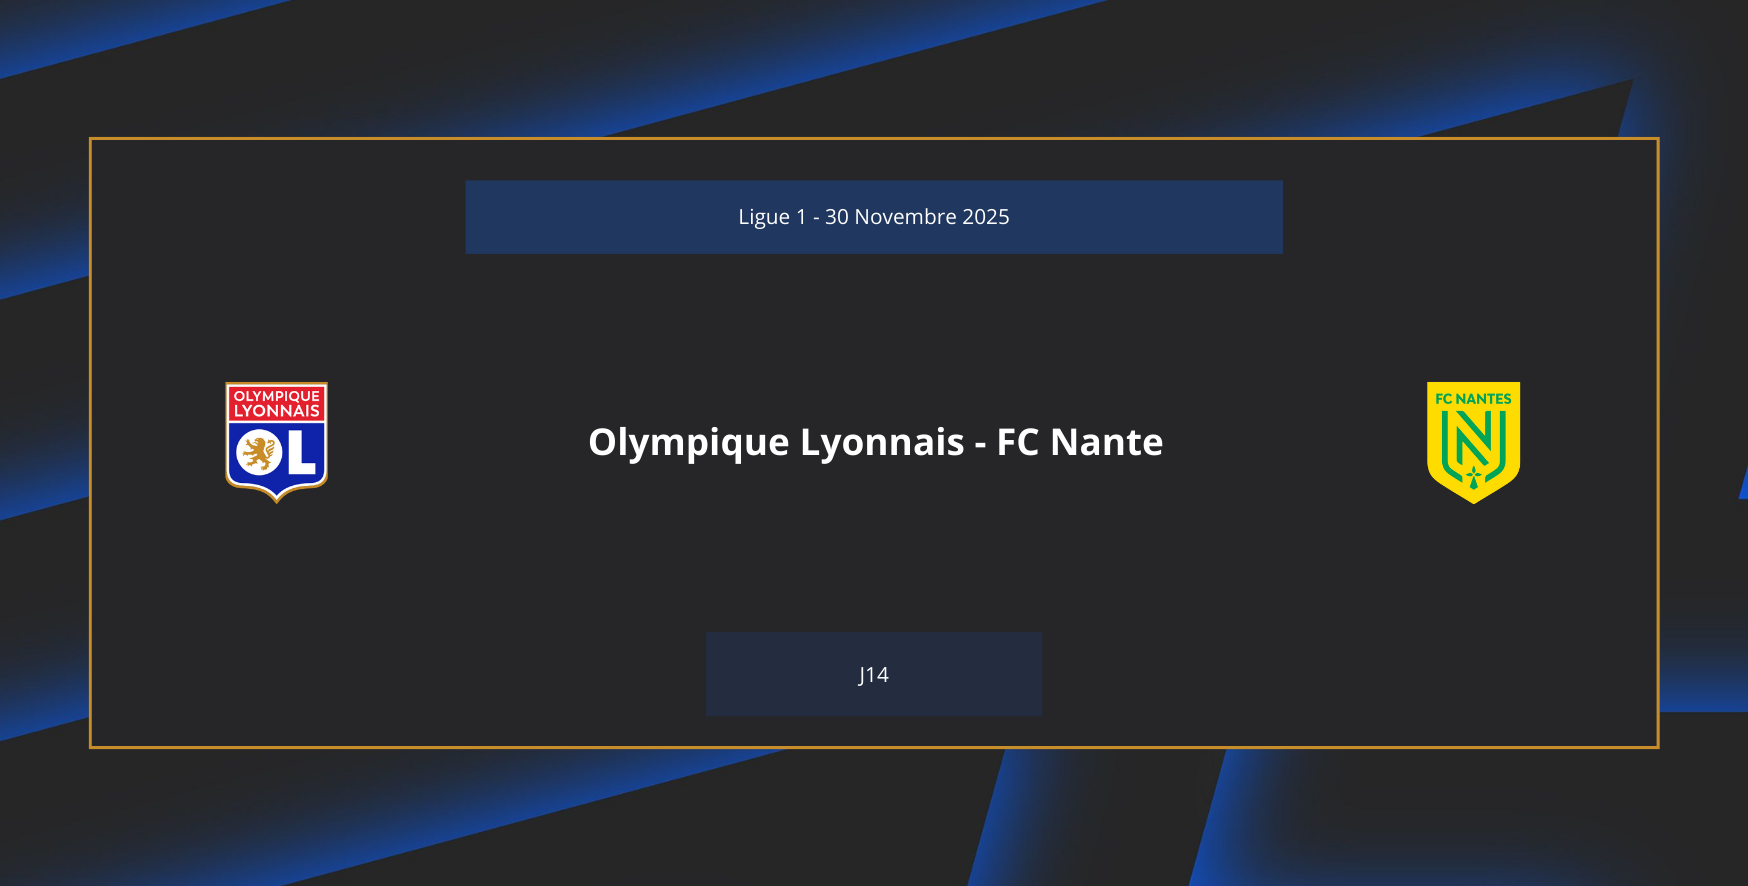
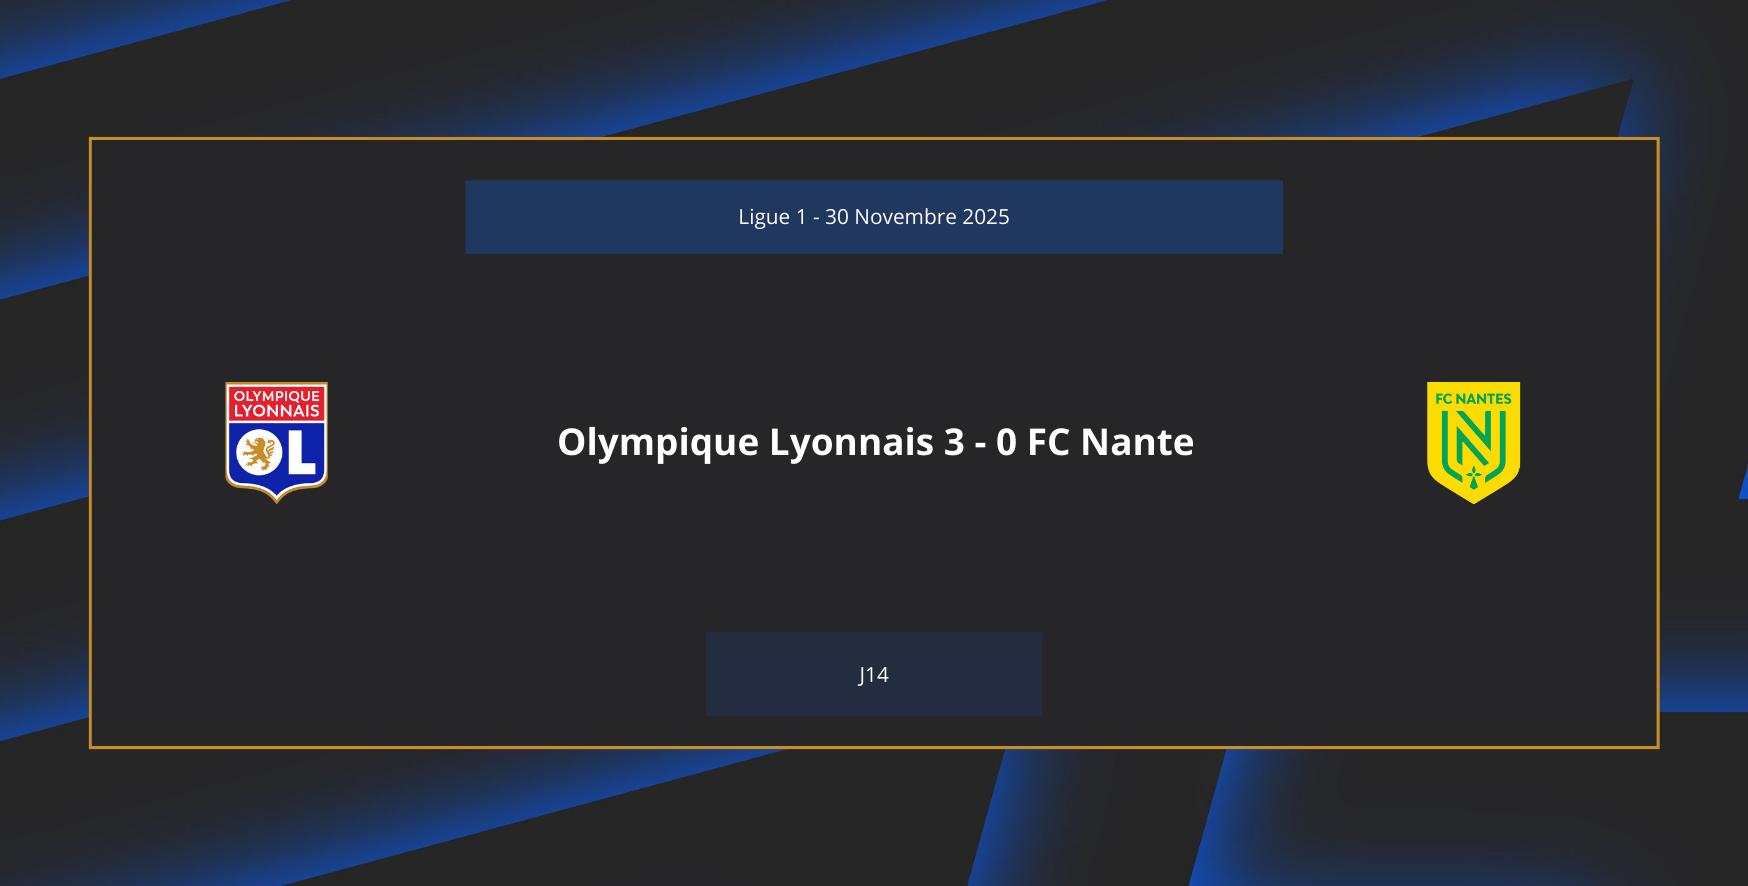
Mise-à-jour match + add summary "header" class

Changed region(s): [[0.3089, 0.4876, 0.6796, 0.5181]]

diff --git a/index.html b/index.html
@@ -22,7 +22,7 @@
             </a>
             <div class="menu">
                 <details class="nav">
-                    <summary><b>Saison Actuelle</b></summary>
+                    <summary class="nom-nav"><b>Saison Actuelle</b></summary>
                     <div class="sous-nav">
                         <ul>
                             <li><a href="match.html">Matchs</a></li>
@@ -33,7 +33,7 @@
                 </details>
 
                 <details class="nav">
-                    <summary><b>Anciennes Saisons</b></summary>
+                    <summary class="nom-nav"><b>Anciennes Saisons</b></summary>
                     <div class="sous-nav">
                         <ul>
                             <li>2024-2025</li>
@@ -44,7 +44,7 @@
                 </details>
 
                 <details class="nav">
-                    <summary><b>Histoire</b></summary>
+                    <summary class="nom-nav"><b>Histoire</b></summary>
                     <div class="sous-nav">
                         <ul>
                             <li><a href="palmarès.html">Palmarès</a></li>
@@ -62,6 +62,11 @@
                     <section class="bordure">
                         <h3>Dernier Match</h3>
                         <article class="sous_box">
+                            <img src="/image_match/OL - FCN.png" alt="Olympique Lyonnais 3 - 0 FC Nante" width="80%">
+                            <p class="bouton">Voir le match</p>
+                        </article>
+
+                        <article class="sous_box">
                             <img src="image_match/MTA-OL.png" alt="Macabi Tel Aviv 0 - 6 Olympique Lyonnais" width="80%">
                             <p class="bouton">Voir le match</p>
                         </article>
@@ -75,11 +80,6 @@
                             <img src="/image_match/OL-PSG.png" alt="Olympique Lyonnais 2 - 3 Paris SG" width="80%">
                             <p class="bouton">Voir le match</p>
                         </article>
-
-                        <article class="sous_box">
-                            <img src="/image_match/BS-OL.png" alt="Betis Seville 2 -  0 Olympique Lyonnais" width="80%">
-                            <p class="bouton">Voir le match</p>
-                        </article>
                         <a href="match.html" class="bouton-fin">Voir plus de match</a>
                     </section>
                 </div>
@@ -87,15 +87,15 @@
                     <section class="bordure">
                         <h3>Match à venir</h3>
                         <article class="sous_box">
-                            <img src="/image_match/OL - FCN.png" alt="Olympique Lyonnais - FC Nante" width="80%">
-                            <p class="bouton">Voir le match</p>
-                        </article>
-                        <article class="sous_box">
                             <img src="/image_match/FCL - OL.png" alt="FC Lorient - Olympique Lyonnais" width="80%">
                             <p class="bouton">Voir le match</p>
                         </article>
                         <article class="sous_box">
                             <img src="/image_match/OL - GAE.png" alt="Olympique Lyonnais - Go Ahead Eagles" width="80%">
+                            <p class="bouton">Voir le match</p>
+                        </article>
+                        <article class="sous_box">
+                            <img src="/image_match/OL-HAC.png" alt="Olympique Lyonnais - Havre AC" width="80%">
                             <p class="bouton">Voir le match</p>
                         </article>
                         <a href="match.html" class="bouton-fin">Voir plus de match</a>
@@ -216,7 +216,6 @@
                 <article class="copy">
                     <p>Copyrights image : </p>
                     <ul>
-                        <li><a href="https://fr.wikipedia.org/wiki/Olympique_lyonnais" target="_blank">Wikipedia</a></li>
                         <li><a href="https://www.lfp.fr/" target="_blank">LFP</a></li>
                         <li><a href="https://fr.uefa.com/" target="_blank">UEFA</a></li>
                         <li><a href="https://ligue1.com/fr" target="_blank">Ligue 1</a></li>

diff --git a/ancien-visage.html b/ancien-visage.html
@@ -21,7 +21,7 @@
             </a>
             <div class="menu">
                 <details class="nav">
-                    <summary><b>Saison Actuelle</b></summary>
+                    <summary class="nom-nav"><b>Saison Actuelle</b></summary>
                     <div class="sous-nav">
                         <ul>
                             <li><a href="match.html">Matchs</a></li>
@@ -32,7 +32,7 @@
                 </details>
 
                 <details class="nav">
-                    <summary><b>Anciennes Saisons</b></summary>
+                    <summary class="nom-nav"><b>Anciennes Saisons</b></summary>
                     <div class="sous-nav">
                         <ul>
                             <li>2024-2025</li>
@@ -43,7 +43,7 @@
                 </details>
 
                 <details class="nav">
-                    <summary><b>Histoire</b></summary>
+                    <summary class="nom-nav"><b>Histoire</b></summary>
                     <div class="sous-nav">
                         <ul>
                             <li><a href="palmarès.html">Palmarès</a></li>
@@ -64,7 +64,6 @@
                 <article class="copy">
                     <p>Copyrights image : </p>
                     <ul>
-                        <li><a href="https://fr.wikipedia.org/wiki/Olympique_lyonnais" target="_blank">Wikipedia</a></li>
                         <li><a href="https://www.lfp.fr/" target="_blank">LFP</a></li>
                         <li><a href="https://fr.uefa.com/" target="_blank">UEFA</a></li>
                         <li><a href="https://ligue1.com/fr" target="_blank">Ligue 1</a></li>

diff --git a/ancienne_saison.html b/ancienne_saison.html
@@ -21,7 +21,7 @@
             </a>
             <div class="menu">
                 <details class="nav">
-                    <summary><b>Saison Actuelle</b></summary>
+                    <summary class="nom-nav"><b>Saison Actuelle</b></summary>
                     <div class="sous-nav">
                         <ul>
                             <li><a href="match.html">Matchs</a></li>
@@ -32,7 +32,7 @@
                 </details>
 
                 <details class="nav">
-                    <summary><b>Anciennes Saisons</b></summary>
+                    <summary class="nom-nav"><b>Anciennes Saisons</b></summary>
                     <div class="sous-nav">
                         <ul>
                             <li>2024-2025</li>
@@ -43,7 +43,7 @@
                 </details>
 
                 <details class="nav">
-                    <summary><b>Histoire</b></summary>
+                    <summary class="nom-nav"><b>Histoire</b></summary>
                     <div class="sous-nav">
                         <ul>
                             <li><a href="palmarès.html">Palmarès</a></li>
@@ -64,7 +64,6 @@
                 <article class="copy">
                     <p>Copyrights image : </p>
                     <ul>
-                        <li><a href="https://fr.wikipedia.org/wiki/Olympique_lyonnais" target="_blank">Wikipedia</a></li>
                         <li><a href="https://www.lfp.fr/" target="_blank">LFP</a></li>
                         <li><a href="https://fr.uefa.com/" target="_blank">UEFA</a></li>
                         <li><a href="https://ligue1.com/fr" target="_blank">Ligue 1</a></li>

diff --git a/classement.html b/classement.html
@@ -21,7 +21,7 @@
             </a>
             <div class="menu">
                 <details class="nav">
-                    <summary><b>Saison Actuelle</b></summary>
+                    <summary class="nom-nav"><b>Saison Actuelle</b></summary>
                     <div class="sous-nav">
                         <ul>
                             <li><a href="match.html">Matchs</a></li>
@@ -32,7 +32,7 @@
                 </details>
 
                 <details class="nav">
-                    <summary><b>Anciennes Saisons</b></summary>
+                    <summary class="nom-nav"><b>Anciennes Saisons</b></summary>
                     <div class="sous-nav">
                         <ul>
                             <li>2024-2025</li>
@@ -43,7 +43,7 @@
                 </details>
 
                 <details class="nav">
-                    <summary><b>Histoire</b></summary>
+                    <summary class="nom-nav"><b>Histoire</b></summary>
                     <div class="sous-nav">
                         <ul>
                             <li><a href="palmarès.html">Palmarès</a></li>
@@ -64,7 +64,6 @@
                 <article class="copy">
                     <p>Copyrights image : </p>
                     <ul>
-                        <li><a href="https://fr.wikipedia.org/wiki/Olympique_lyonnais" target="_blank">Wikipedia</a></li>
                         <li><a href="https://www.lfp.fr/" target="_blank">LFP</a></li>
                         <li><a href="https://fr.uefa.com/" target="_blank">UEFA</a></li>
                         <li><a href="https://ligue1.com/fr" target="_blank">Ligue 1</a></li>

diff --git a/effectif.html b/effectif.html
@@ -21,7 +21,7 @@
             </a>
             <div class="menu">
                 <details class="nav">
-                    <summary><b>Saison Actuelle</b></summary>
+                    <summary class="nom-nav"><b>Saison Actuelle</b></summary>
                     <div class="sous-nav">
                         <ul>
                             <li><a href="match.html">Matchs</a></li>
@@ -32,7 +32,7 @@
                 </details>
 
                 <details class="nav">
-                    <summary><b>Anciennes Saisons</b></summary>
+                    <summary class="nom-nav"><b>Anciennes Saisons</b></summary>
                     <div class="sous-nav">
                         <ul>
                             <li>2024-2025</li>
@@ -43,7 +43,7 @@
                 </details>
 
                 <details class="nav">
-                    <summary><b>Histoire</b></summary>
+                    <summary class="nom-nav"><b>Histoire</b></summary>
                     <div class="sous-nav">
                         <ul>
                             <li><a href="palmarès.html">Palmarès</a></li>
@@ -64,7 +64,6 @@
                 <article class="copy">
                     <p>Copyrights image : </p>
                     <ul>
-                        <li><a href="https://fr.wikipedia.org/wiki/Olympique_lyonnais" target="_blank">Wikipedia</a></li>
                         <li><a href="https://www.lfp.fr/" target="_blank">LFP</a></li>
                         <li><a href="https://fr.uefa.com/" target="_blank">UEFA</a></li>
                         <li><a href="https://ligue1.com/fr" target="_blank">Ligue 1</a></li>

diff --git a/histoire-club.html b/histoire-club.html
@@ -21,7 +21,7 @@
             </a>
             <div class="menu">
                 <details class="nav">
-                    <summary><b>Saison Actuelle</b></summary>
+                    <summary class="nom-nav"><b>Saison Actuelle</b></summary>
                     <div class="sous-nav">
                         <ul>
                             <li><a href="match.html">Matchs</a></li>
@@ -32,7 +32,7 @@
                 </details>
 
                 <details class="nav">
-                    <summary><b>Anciennes Saisons</b></summary>
+                    <summary class="nom-nav"><b>Anciennes Saisons</b></summary>
                     <div class="sous-nav">
                         <ul>
                             <li>2024-2025</li>
@@ -43,7 +43,7 @@
                 </details>
 
                 <details class="nav">
-                    <summary><b>Histoire</b></summary>
+                    <summary class="nom-nav"><b>Histoire</b></summary>
                     <div class="sous-nav">
                         <ul>
                             <li><a href="palmarès.html">Palmarès</a></li>
@@ -64,7 +64,6 @@
                 <article class="copy">
                     <p>Copyrights image : </p>
                     <ul>
-                        <li><a href="https://fr.wikipedia.org/wiki/Olympique_lyonnais" target="_blank">Wikipedia</a></li>
                         <li><a href="https://www.lfp.fr/" target="_blank">LFP</a></li>
                         <li><a href="https://fr.uefa.com/" target="_blank">UEFA</a></li>
                         <li><a href="https://ligue1.com/fr" target="_blank">Ligue 1</a></li>

diff --git a/match.html b/match.html
@@ -22,7 +22,7 @@
             </a>
             <div class="menu">
                 <details class="nav">
-                    <summary><b>Saison Actuelle</b></summary>
+                    <summary class="nom-nav"><b>Saison Actuelle</b></summary>
                     <div class="sous-nav">
                         <ul>
                             <li><a href="match.html">Matchs</a></li>
@@ -33,7 +33,7 @@
                 </details>
 
                 <details class="nav">
-                    <summary><b>Anciennes Saisons</b></summary>
+                    <summary class="nom-nav"><b>Anciennes Saisons</b></summary>
                     <div class="sous-nav">
                         <ul>
                             <li>2024-2025</li>
@@ -44,7 +44,7 @@
                 </details>
 
                 <details class="nav">
-                    <summary><b>Histoire</b></summary>
+                    <summary class="nom-nav"><b>Histoire</b></summary>
                     <div class="sous-nav">
                         <ul>
                             <li><a href="palmarès.html">Palmarès</a></li>
@@ -87,7 +87,6 @@
                 <article class="copy">
                     <p>Copyrights image : </p>
                     <ul>
-                        <li><a href="https://fr.wikipedia.org/wiki/Olympique_lyonnais" target="_blank">Wikipedia</a></li>
                         <li><a href="https://www.lfp.fr/" target="_blank">LFP</a></li>
                         <li><a href="https://fr.uefa.com/" target="_blank">UEFA</a></li>
                         <li><a href="https://ligue1.com/fr" target="_blank">Ligue 1</a></li>

diff --git a/palmarès.html b/palmarès.html
@@ -21,7 +21,7 @@
             </a>
             <div class="menu">
                 <details class="nav">
-                    <summary><b>Saison Actuelle</b></summary>
+                    <summary class="nom-nav"><b>Saison Actuelle</b></summary>
                     <div class="sous-nav">
                         <ul>
                             <li><a href="match.html">Matchs</a></li>
@@ -32,7 +32,7 @@
                 </details>
 
                 <details class="nav">
-                    <summary><b>Anciennes Saisons</b></summary>
+                    <summary class="nom-nav"><b>Anciennes Saisons</b></summary>
                     <div class="sous-nav">
                         <ul>
                             <li>2024-2025</li>
@@ -43,7 +43,7 @@
                 </details>
 
                 <details class="nav">
-                    <summary><b>Histoire</b></summary>
+                    <summary class="nom-nav"><b>Histoire</b></summary>
                     <div class="sous-nav">
                         <ul>
                             <li><a href="palmarès.html">Palmarès</a></li>
@@ -64,7 +64,6 @@
                 <article class="copy">
                     <p>Copyrights image : </p>
                     <ul>
-                        <li><a href="https://fr.wikipedia.org/wiki/Olympique_lyonnais" target="_blank">Wikipedia</a></li>
                         <li><a href="https://www.lfp.fr/" target="_blank">LFP</a></li>
                         <li><a href="https://fr.uefa.com/" target="_blank">UEFA</a></li>
                         <li><a href="https://ligue1.com/fr" target="_blank">Ligue 1</a></li>

diff --git a/style.css b/style.css
@@ -46,7 +46,7 @@ header img{
     flex: 0.93;
 }
 
-summary{
+.nom-nav{
     list-style: none;
     cursor: pointer;
     position: relative;
@@ -60,7 +60,7 @@ summary{
     transition: transform 0.5s;
 }
 
-summary:hover{
+.nom-nav:hover{
     text-decoration: underline;
     transform: scale(105%);
 }
